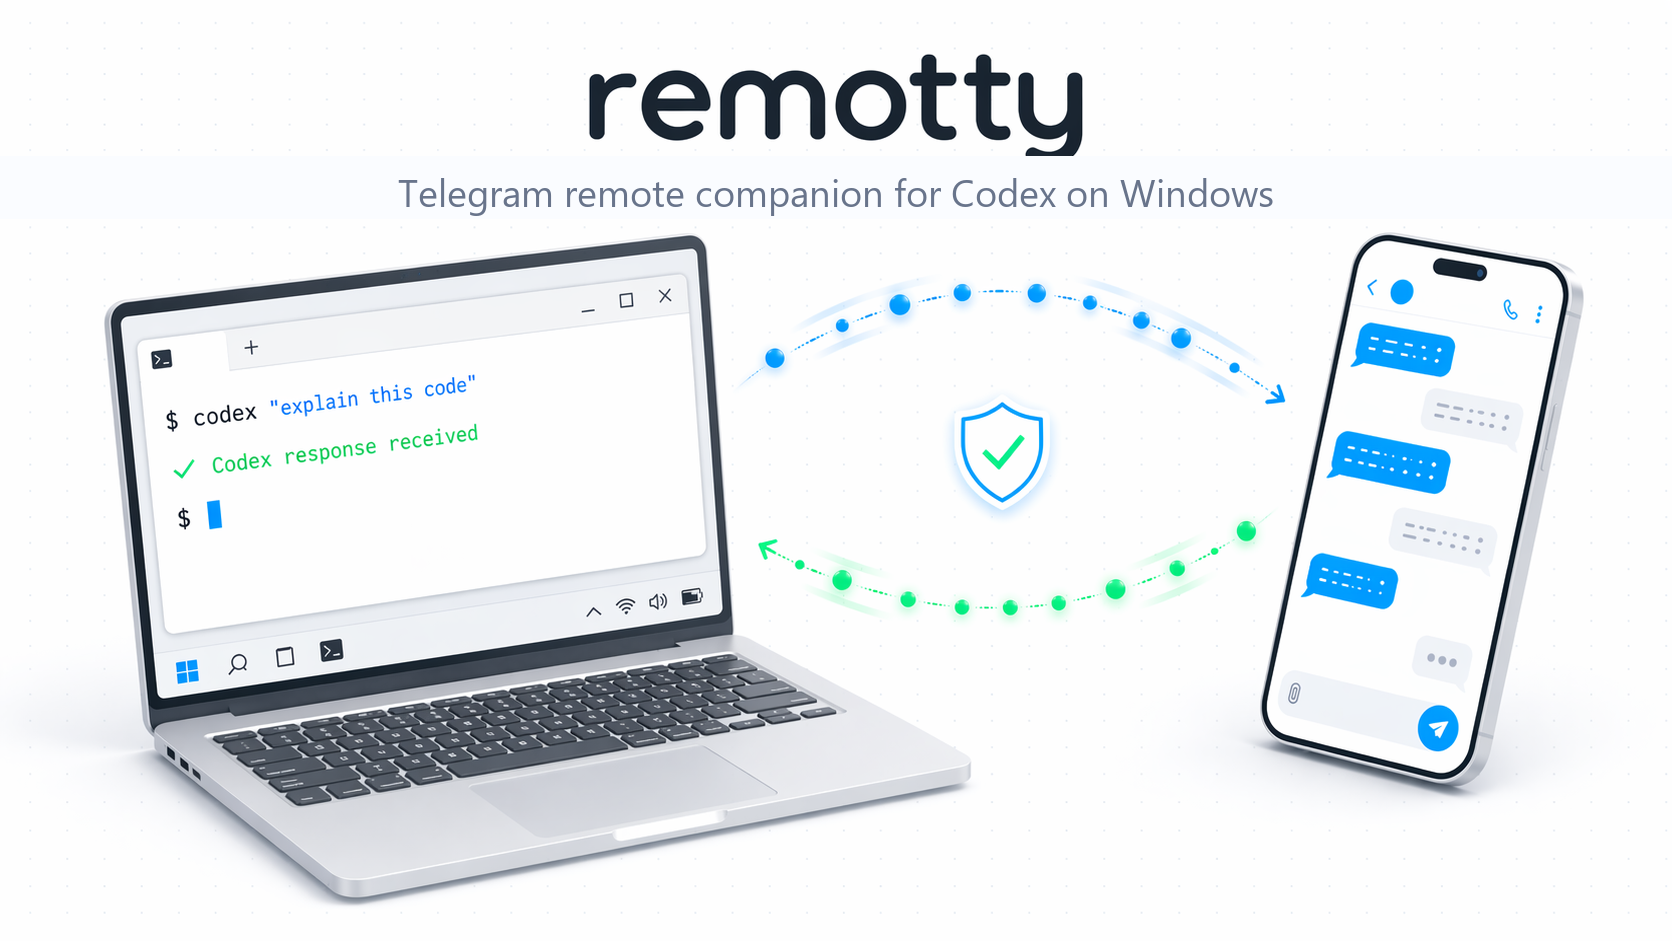
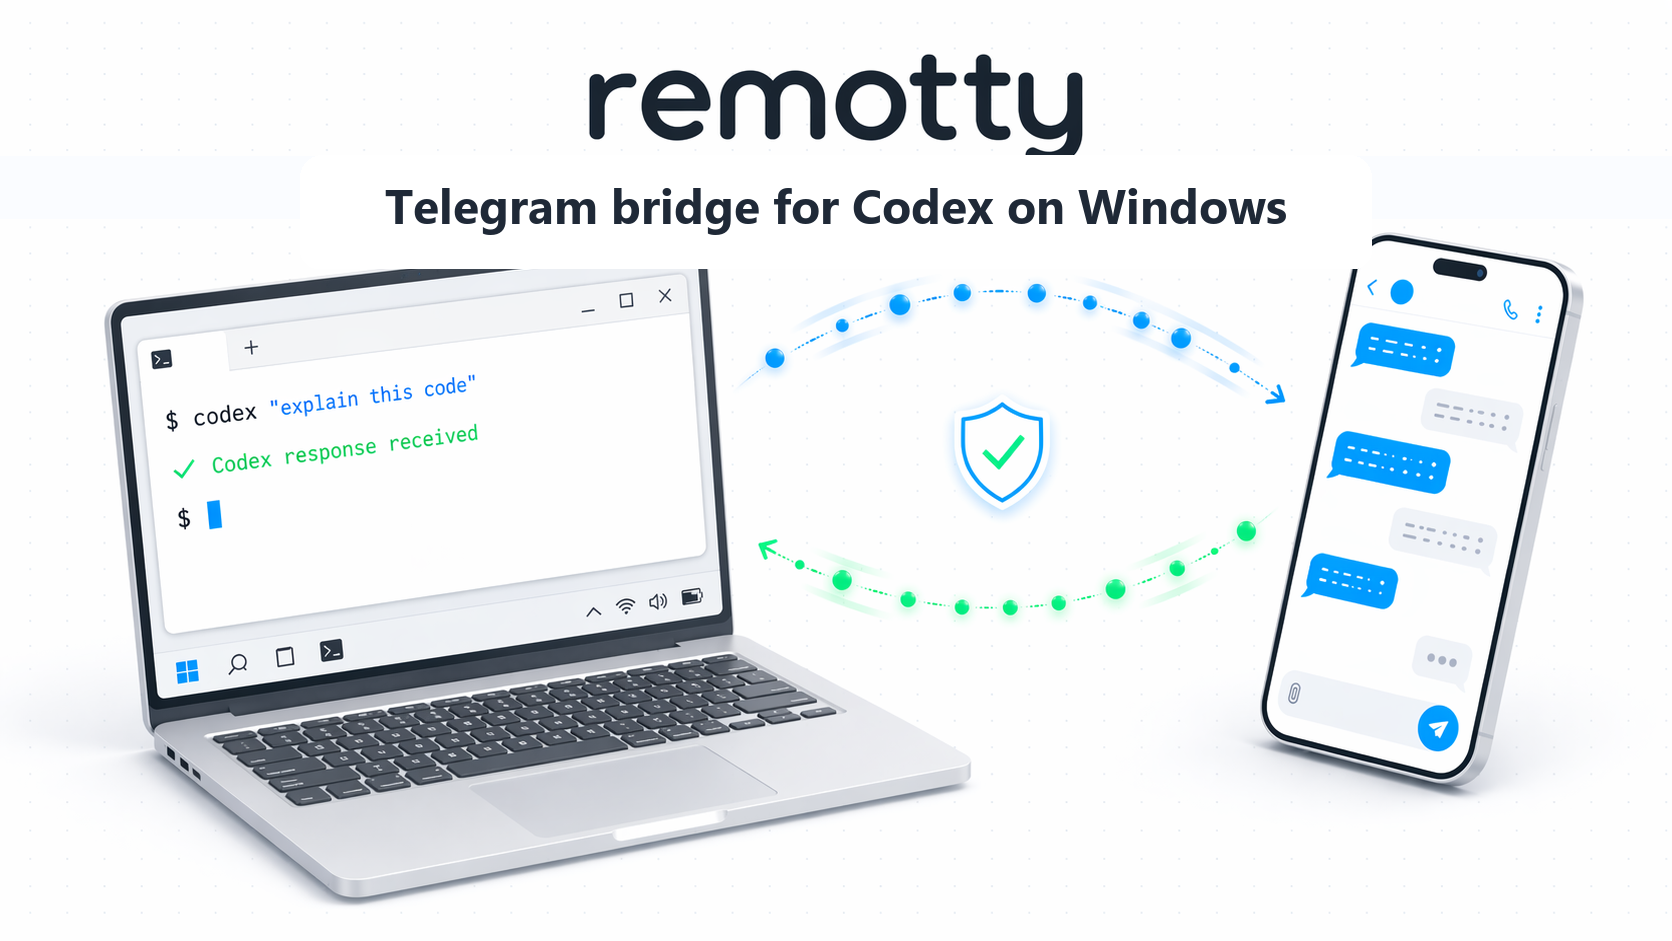
docs: clarify Telegram bridge positioning

Changed region(s): [[0.2177, 0.1849, 0.7775, 0.3082], [0.8086, 0.2465, 0.8397, 0.2774]]

diff --git a/tests/public_surface.rs b/tests/public_surface.rs
@@ -145,9 +145,9 @@ fn npm_package_keeps_binary_install_contract() -> Result<()> {
     assert!(release_workflow.contains("npm publish ./release/remotty-*.tgz --access public"));
     assert!(readme.contains("docs/assets/hero.png"));
     assert!(quickstart.contains("npm install -g remotty"));
-    assert!(readme.contains("Telegram remote companion for Codex on Windows"));
+    assert!(readme.contains("Telegram bridge for watching and lightly steering Codex work"));
     assert!(readme.contains("Codex CLI session you connected"));
-    assert!(readme.contains("Remote Companion Direction"));
+    assert!(readme.contains("Remote Bridge Direction"));
     assert!(readme.contains("Telegram Quickstart"));
     assert!(readme.contains("Advanced CLI Mode"));
     assert!(quickstart.contains("Listening for Telegram channel messages from: remotty:telegram"));
@@ -178,8 +178,8 @@ fn public_docs_explain_thread_setup_and_advanced_mode() -> Result<()> {
     let upgrading_ja = std::fs::read_to_string(repo_root().join("docs").join("upgrading.ja.md"))?;
 
     assert!(readme_ja.contains("連携した `Codex CLI` セッション"));
-    assert!(readme_ja.contains("リモートコンパニオン"));
-    assert!(readme_ja.contains("リモートコンパニオンとしての方針"));
+    assert!(readme_ja.contains("Telegram から声をかけるための小さなブリッジ"));
+    assert!(readme_ja.contains("リモート操作ブリッジとしての方針"));
     assert!(readme_ja.contains("Telegram クイックスタート"));
     assert!(readme_ja.contains("高度な CLI モード"));
     assert!(!readme_ja.contains("docs/development.ja.md"));
@@ -209,7 +209,7 @@ fn public_docs_explain_thread_setup_and_advanced_mode() -> Result<()> {
     assert!(quickstart.contains("paired senders"));
     assert!(quickstart.contains("Does `remotty` require Codex App?"));
     assert!(quickstart.contains("Only paired senders on the allowlist are accepted."));
-    assert!(quickstart.contains("Remote Companion Direction"));
+    assert!(quickstart.contains("Remote Bridge Direction"));
     assert!(!quickstart.contains("writable_roots"));
     assert!(!quickstart.contains("path = \"C:/Users/you/Documents/project\""));
     assert!(!quickstart.contains(".agents/plugins/marketplace.json"));
@@ -246,7 +246,7 @@ fn public_docs_explain_thread_setup_and_advanced_mode() -> Result<()> {
     assert!(quickstart_ja.contains("許可済み送信者"));
     assert!(quickstart_ja.contains("`remotty` に Codex App は必要ですか?"));
     assert!(quickstart_ja.contains("ペアリング済みで、allowlist に入った送信者だけ"));
-    assert!(quickstart_ja.contains("リモートコンパニオンとしての方針"));
+    assert!(quickstart_ja.contains("リモート操作ブリッジとしての方針"));
     assert!(!quickstart_ja.contains("writable_roots"));
     assert!(!quickstart_ja.contains("path = \"C:/Users/you/Documents/project\""));
     assert!(!quickstart_ja.contains(".agents/plugins/marketplace.json"));
@@ -254,16 +254,16 @@ fn public_docs_explain_thread_setup_and_advanced_mode() -> Result<()> {
     assert!(exec_doc_ja.contains("transport = \"exec\""));
     assert!(upgrading.contains("transport = \"app_server\""));
     assert!(upgrading_ja.contains("transport = \"app_server\""));
-    assert!(remote_companion.contains("Telegram remote companion for Codex on Windows"));
+    assert!(remote_companion.contains("Telegram bridge for watching and lightly steering Codex work"));
     assert!(remote_companion.contains("not a replacement for the Codex App"));
     assert!(remote_companion.contains("main workspace"));
-    assert!(remote_companion.contains("Use `remotty` as the pocket remote."));
+    assert!(remote_companion.contains("Use `remotty` as the Telegram bridge"));
     assert!(remote_companion.contains("future direction"));
     assert!(remote_companion.contains("connect to an existing Codex App Server"));
-    assert!(remote_companion_ja.contains("Windows 上の Codex 向け Telegram リモートコンパニオン"));
+    assert!(remote_companion_ja.contains("Windows 上の Codex 作業を Telegram から見守るためのブリッジ"));
     assert!(remote_companion_ja.contains("Codex App の代替ではありません"));
     assert!(remote_companion_ja.contains("主な作業画面"));
-    assert!(remote_companion_ja.contains("`remotty` はポケットリモコンです"));
+    assert!(remote_companion_ja.contains("外出先から短く声をかけるための Telegram ブリッジ"));
     assert!(remote_companion_ja.contains("今後の方針です"));
     assert!(remote_companion_ja.contains("既存の Codex App Server へ接続する"));
 

diff --git a/README.ja.md b/README.ja.md
@@ -2,22 +2,27 @@
 
 # `remotty`
 
-![remotty: Windows 上の Codex 向け Telegram リモートコンパニオン](docs/assets/hero.png)
+![remotty: Windows 上の Codex 向け Telegram ブリッジ](docs/assets/hero.png)
 
 `remotty` は Codex App の代替ではありません。
-Windows 上の Codex 作業を Telegram から扱うためのリモートコンパニオンです。
+Windows PC で動いている Codex に、Telegram から声をかけるための小さなブリッジです。
 
-現在の公開手順では、`remotty` が操作するローカルセッションとして `Codex CLI` を使います。
-より高機能な公式の作業画面が必要な時は、Codex App を使います。
-`remotty` は、通知、承認の中継、短い追加入力、状態確認を Telegram から行うために使います。
+AI に作業を任せている時、いちばん困るのは「席を離れた瞬間に止まる」ことです。
+承認待ちかもしれません。
+エラーで止まっているかもしれません。
+あと一言だけ伝えれば、続きが進む場面もあります。
 
-Telegram bot へメッセージを送ります。
-`remotty` が Windows PC で受け取り、連携した `Codex CLI` セッションへ渡します。
+`remotty` は、そうした小さな確認と追加入力を Telegram から行うためのツールです。
+本格的な作業、差分の確認、長い指示は、Codex App または `Codex CLI` の画面で行います。
+
+現在の公開手順では、`remotty` がつなぐ相手はローカルの `Codex CLI` セッションです。
+Telegram bot へ送った文を `remotty` が Windows PC で受け取り、連携した `Codex CLI` セッションへ渡します。
 返答は同じ Telegram チャットへ戻ります。
 
-`remotty` は公開 webhook サーバを使いません。
+`remotty` は公式のリモートコントロール機能ではありません。
+公開 webhook サーバも使いません。
 開いている Codex App 画面へキー入力もしません。
-現在の公開手順では、ローカルの `codex` コマンドと `app_server` 接続を通じて Codex とやり取りします。
+ローカルの `codex` コマンドと `app_server` 接続を通じて Codex とやり取りします。
 
 ## できること
 
@@ -32,7 +37,8 @@ Telegram bot へメッセージを送ります。
 
 ## 使う場面
 
-席を離れている時に、Windows PC 上の Codex 作業を Telegram から監視、承認、軽く操作したい場合に使います。
+席を離れている時に、Windows PC 上の Codex 作業を Telegram から見守りたい場合に使います。
+承認待ちなら内容を確認し、必要なら短い追加入力を送ります。
 
 ## 必要なもの
 
@@ -62,7 +68,7 @@ npm install -g remotty
 
 その後、利用したいプロジェクトで [Telegram クイックスタート](docs/telegram-quickstart.ja.md) に沿って進めます。
 
-## はじめ方の流れ
+## 最初に知っておくこと
 
 設定コマンドを1つのスクリプトとしてまとめて貼らないでください。
 Telegram 連携では、`codex` と `remotty` の両方を起動したまま使うため、
@@ -107,7 +113,7 @@ Telegram から送るコマンドは次のとおりです。
 ## 関連ドキュメント
 
 - [Telegram クイックスタート](docs/telegram-quickstart.ja.md)
-- [リモートコンパニオンとしての方針](docs/remote-companion.ja.md)
+- [リモート操作ブリッジとしての方針](docs/remote-companion.ja.md)
 - [Fakechat デモ](docs/fakechat-demo.ja.md)
 - [高度な CLI モード](docs/exec-transport.ja.md)
 - [更新時の注意](docs/upgrading.ja.md)

diff --git a/docs/telegram-quickstart.ja.md b/docs/telegram-quickstart.ja.md
@@ -1,8 +1,17 @@
 # Telegram クイックスタート
 
-この手順では、`remotty` を Windows の `Codex CLI` 向け Telegram リモートコンパニオンとして設定します。
+この手順では、`remotty` を Windows の `Codex CLI` 向け Telegram ブリッジとして設定します。
 `remotty` は Codex App の画面へ入力しません。
 ローカルの `codex` コマンドと `app_server` 接続を通じて Codex とやり取りします。
+
+## 何ができるようになるか
+
+AI に作業を任せると、作業中に承認が必要になることがあります。
+席を離れている間にそこで止まると、帰ってくるまで何も進みません。
+
+`remotty` を使うと、Telegram で状態を見たり、承認したり、短い追加入力を送ったりできます。
+ただし、Codex App を遠隔操作する公式機能ではありません。
+大きな方針変更や差分の細かい確認は、手元の Codex 画面で行います。
 
 ## 仕組み
 
@@ -14,8 +23,8 @@
 6. Codex が返答し、`remotty` が Telegram へ戻します。
 
 現在の手順では、ローカルの `Codex CLI` セッションを使います。
-今後も `remotty` は、Telegram からの監視、承認の中継、短い追加入力に集中します。
-詳しくは [リモートコンパニオンとしての方針](remote-companion.ja.md) を参照してください。
+今後も `remotty` は、Telegram からの見守り、承認の中継、短い追加入力に集中します。
+詳しくは [リモート操作ブリッジとしての方針](remote-companion.ja.md) を参照してください。
 
 この手順では、次の PowerShell 画面を使い分けます。
 
@@ -168,6 +177,8 @@ Telegram で次を送ります。
 
 Codex が承認を求めると、`remotty` は Telegram へ中継します。
 許可済み送信者だけが承認できます。
+分からない承認は、その場で許可しないでください。
+手元の Codex 画面で内容を確認してから判断します。
 
 ## 接続の Q&A
 
@@ -213,5 +224,5 @@ Codex が承認を求めると、`remotty` は Telegram へ中継します。
 ## 関連ドキュメント
 
 - [高度な CLI モード](exec-transport.ja.md)
-- [リモートコンパニオンとしての方針](remote-companion.ja.md)
+- [リモート操作ブリッジとしての方針](remote-companion.ja.md)
 - [更新時の注意](upgrading.ja.md)

diff --git a/README.md b/README.md
@@ -2,23 +2,29 @@
 
 # remotty
 
-![remotty: Telegram remote companion for Codex on Windows](docs/assets/hero.png)
+![remotty: Telegram bridge for Codex on Windows](docs/assets/hero.png)
 
 `remotty` is not a replacement for the Codex App.
-It is a Telegram remote companion for Codex on Windows.
+It is a Telegram bridge for watching and lightly steering Codex work on Windows.
 
-Use Codex CLI as the local session that `remotty` controls today.
-Use the Codex App for richer official Codex workflows.
-Use `remotty` when you want Telegram notifications, approval relay, short
-steering messages, and status checks while away from the full Codex interface.
+The common failure mode for delegated AI work is simple: you walk away, and the
+run stops on an approval prompt or a small missing instruction.
+`remotty` gives you a narrow Telegram surface for that moment.
 
-You send a message to your Telegram bot. `remotty` receives it on your Windows
-PC, sends it to the Codex CLI session you connected, and returns the reply to the same
-Telegram chat.
+Use Codex CLI as the local session that `remotty` connects today.
+Use the Codex App or Codex CLI for richer task control, diff review, and long
+instructions.
+Use `remotty` for Telegram notifications, approval relay, concise status, and
+short follow-up messages while away from the full Codex interface.
+
+You send a message to your Telegram bot.
+`remotty` receives it on your Windows PC, sends it to the Codex CLI session you connected, and returns the reply to the same Telegram chat.
 
 `remotty` does not expose a public webhook server. It also does not type into
-the open Codex App window. In the current public flow, it talks to local Codex
-through the local `codex` command and the `app_server` transport.
+the open Codex App window.
+It is not an official remote-control surface for Codex.
+In the current public flow, it talks to local Codex through the local `codex`
+command and the `app_server` transport.
 
 ## What It Does
 
@@ -113,7 +119,7 @@ Run these in Telegram:
 ## Related Docs
 
 - [Telegram Quickstart](docs/telegram-quickstart.md)
-- [Remote Companion Direction](docs/remote-companion.md)
+- [Remote Bridge Direction](docs/remote-companion.md)
 - [Fakechat Demo](docs/fakechat-demo.md)
 - [Advanced CLI Mode](docs/exec-transport.md)
 - [Upgrade Notes](docs/upgrading.md)

diff --git a/docs/telegram-quickstart.md b/docs/telegram-quickstart.md
@@ -1,9 +1,19 @@
 # Telegram Quickstart
 
-This guide sets up `remotty` as a Telegram remote companion for Codex CLI on Windows.
+This guide sets up `remotty` as a Telegram bridge for Codex CLI on Windows.
 `remotty` does not type into a Codex App window.
 It talks to local Codex through the local `codex` command and the local
 `app_server` transport.
+
+## What This Gives You
+
+AI work can stop while you are away from the keyboard.
+Codex may need approval, hit an error, or need one short follow-up instruction.
+
+`remotty` lets you check status, approve, deny, stop, or send a short follow-up
+from Telegram.
+It is not an official remote-control surface for the Codex App.
+Use the Codex App or Codex CLI for rich task control and detailed diff review.
 
 ## How It Works
 
@@ -17,7 +27,7 @@ It talks to local Codex through the local `codex` command and the local
 The current quickstart uses a local Codex CLI session.
 The product direction is to keep `remotty` focused on Telegram-based watching,
 approval relay, and short steering even as richer Codex App surfaces evolve.
-See [Remote Companion Direction](remote-companion.md).
+See [Remote Bridge Direction](remote-companion.md).
 
 You will use these PowerShell windows:
 
@@ -169,6 +179,8 @@ The reply appears in Telegram.
 
 When Codex asks for approval, `remotty` posts the prompt to Telegram.
 Only allowed senders can approve.
+If you do not understand an approval request, do not approve it from Telegram.
+Check the local Codex screen first.
 
 ## Connection Q&A
 
@@ -214,5 +226,5 @@ Only allowed senders can approve.
 ## Related Docs
 
 - [Advanced CLI Mode](exec-transport.md)
-- [Remote Companion Direction](remote-companion.md)
+- [Remote Bridge Direction](remote-companion.md)
 - [Upgrade Notes](upgrading.md)

diff --git a/docs/remote-companion.ja.md b/docs/remote-companion.ja.md
@@ -1,10 +1,13 @@
-# リモートコンパニオンとしての方針
+# リモート操作ブリッジとしての方針
 
-`remotty` は、Windows 上の Codex 向け Telegram リモートコンパニオンです。
+`remotty` は、Windows 上の Codex 作業を Telegram から見守るためのブリッジです。
 Codex App の代替ではありません。
 
+AI に任せた作業は、ずっと自動で進むとは限りません。
+承認が必要になったり、判断待ちになったり、ひとこと補足すれば進められる場面があります。
+
+`remotty` は、その小さな接点だけを Telegram へ持ち出します。
 全文の確認、差分の詳細レビュー、プロジェクト選択、細かい操作は、Codex App または `Codex CLI` が担います。
-`remotty` は、席を離れている時に必要な小さな操作面に集中します。
 対象は、通知、承認の中継、短い状態確認、短い追加入力です。
 今後も、Codex App Server を使う構成に合う形で進めます。
 ただし、Codex の作業画面そのものを置き換えることは目指しません。
@@ -12,7 +15,7 @@ Codex App の代替ではありません。
 ## プロダクトの位置づけ
 
 Codex App または `Codex CLI` は、主な作業画面です。
-`remotty` はポケットリモコンです。
+`remotty` は、外出先から短く声をかけるための Telegram ブリッジです。
 
 `remotty` は、次の問いへすばやく答えられる状態を目指します。
 
@@ -45,6 +48,7 @@ transport = "app_server"
 
 `remotty` は、次のものを目指しません。
 
+- 公式のリモートコントロール機能
 - 全文を読む UI
 - 詳細な差分ビューア
 - エディタ統合

diff --git a/docs/remote-companion.md b/docs/remote-companion.md
@@ -1,7 +1,11 @@
-# Remote Companion Direction
+# Remote Bridge Direction
 
-`remotty` is a Telegram remote companion for Codex on Windows.
+`remotty` is a Telegram bridge for watching and lightly steering Codex work on Windows.
 It is not a replacement for the Codex App.
+
+Delegated AI work does not always fail loudly.
+It may stop on an approval prompt, wait for a small decision, or need one short
+follow-up instruction.
 
 The Codex App or Codex CLI remains the main workspace for full transcripts,
 diff review, project selection, and rich task control.
@@ -13,7 +17,7 @@ pretending to be the full Codex interface.
 ## Product Positioning
 
 Use the Codex App or Codex CLI as the main workspace.
-Use `remotty` as the pocket remote.
+Use `remotty` as the Telegram bridge for short remote follow-ups.
 
 `remotty` should answer a few narrow questions quickly:
 
@@ -48,6 +52,7 @@ The `exec` transport remains available as an advanced fallback.
 
 `remotty` should not become:
 
+- an official remote-control surface
 - a full transcript UI
 - a rich diff viewer
 - an editor integration
